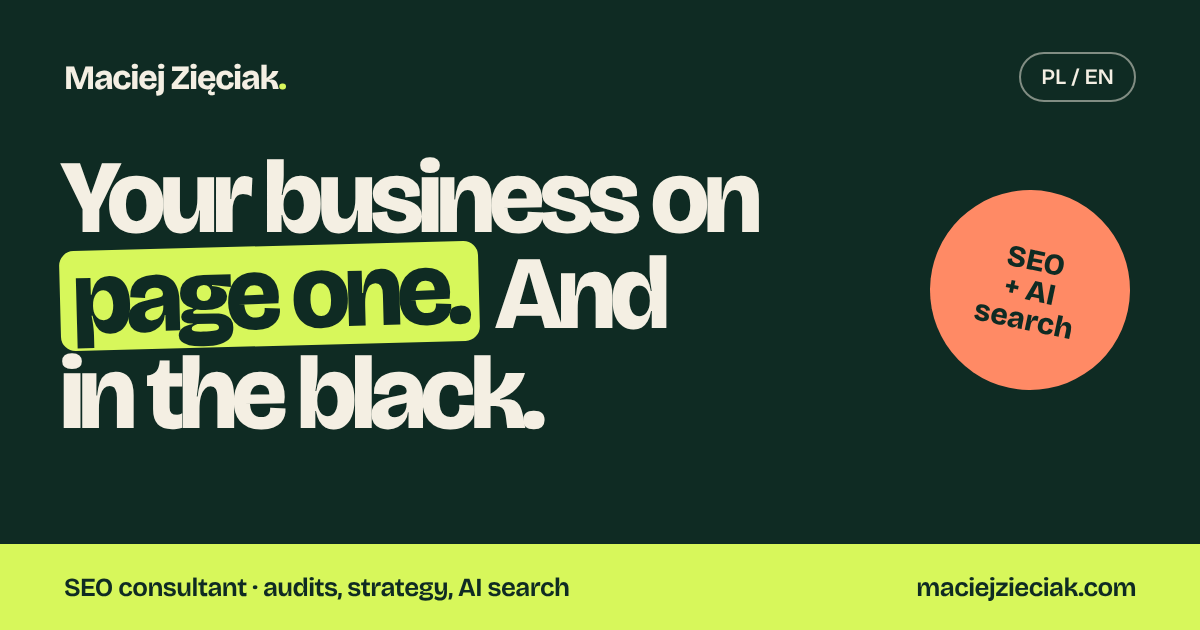
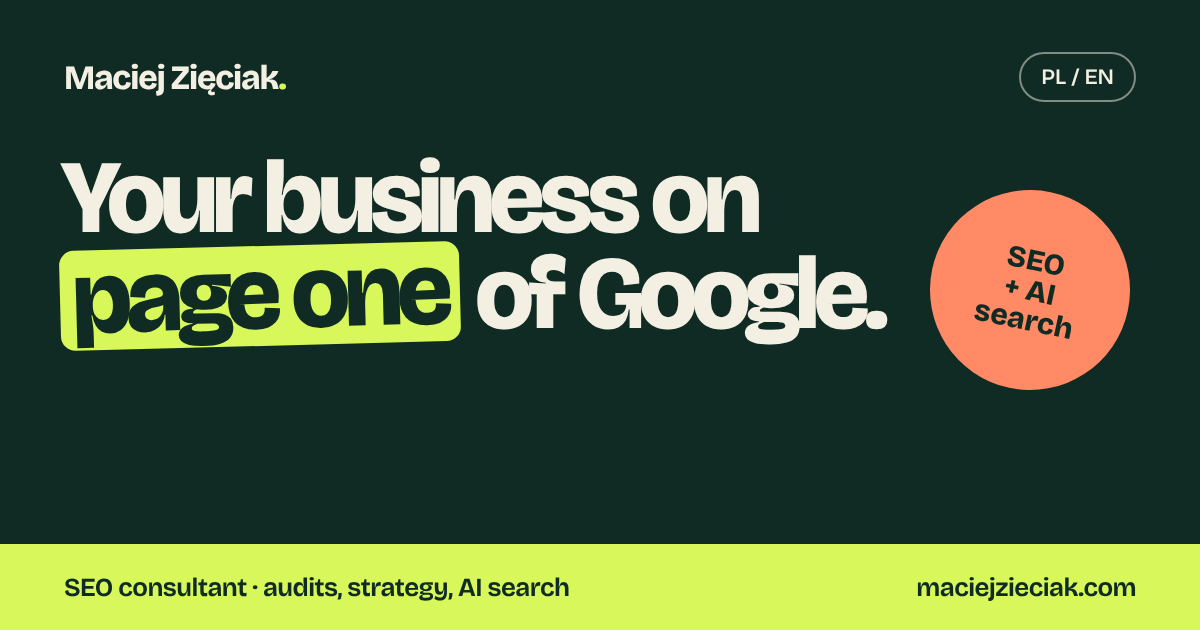
Simplify hero headline
Replace the colloquial "I w kasie" / "And in the black" ending with a
plain promise: "Twoja firma na pierwszej stronie Google" /
"Your business on page one of Google". OG images updated to match.

Claude-Session: https://claude.ai/code/session_0173YsSGFpzk1nU3va3rQVeU

Changed region(s): [[0.0308, 0.5429, 0.4625, 0.6937], [0.37, 0.3619, 0.74, 0.5429], [0.1542, 0.4825, 0.185, 0.5127]]

diff --git a/src/i18n/pl.ts b/src/i18n/pl.ts
@@ -21,7 +21,7 @@ export const pl = {
   },
   hero: {
     pill: 'Konsultant SEO · PL / EN',
-    title: [{ t: 'Twoja firma na ' }, { t: 'pierwszej', hl: true }, { t: ' stronie. I w kasie.' }],
+    title: [{ t: 'Twoja firma na ' }, { t: 'pierwszej', hl: true }, { t: ' stronie Google.' }],
     sticker: ['SEO', '+ AI', 'search'],
     lead:
       'Konsultant SEO, który mówi po ludzku. Audyty, strategia treści i widoczność w Google oraz ChatGPT — tak, żeby ruch kończył się zapytaniem, a nie tylko ładnym wykresem.',

diff --git a/src/i18n/en.ts b/src/i18n/en.ts
@@ -23,7 +23,7 @@ export const en: Dict = {
   },
   hero: {
     pill: 'SEO consultant · EN / PL',
-    title: [{ t: 'Your business on ' }, { t: 'page one.', hl: true }, { t: ' And in the black.' }],
+    title: [{ t: 'Your business on ' }, { t: 'page one', hl: true }, { t: ' of Google.' }],
     sticker: ['SEO', '+ AI', 'search'],
     lead:
       'An SEO consultant who speaks human. Audits, content strategy and visibility in Google and ChatGPT — so your traffic ends in an inquiry, not just a pretty chart.',
